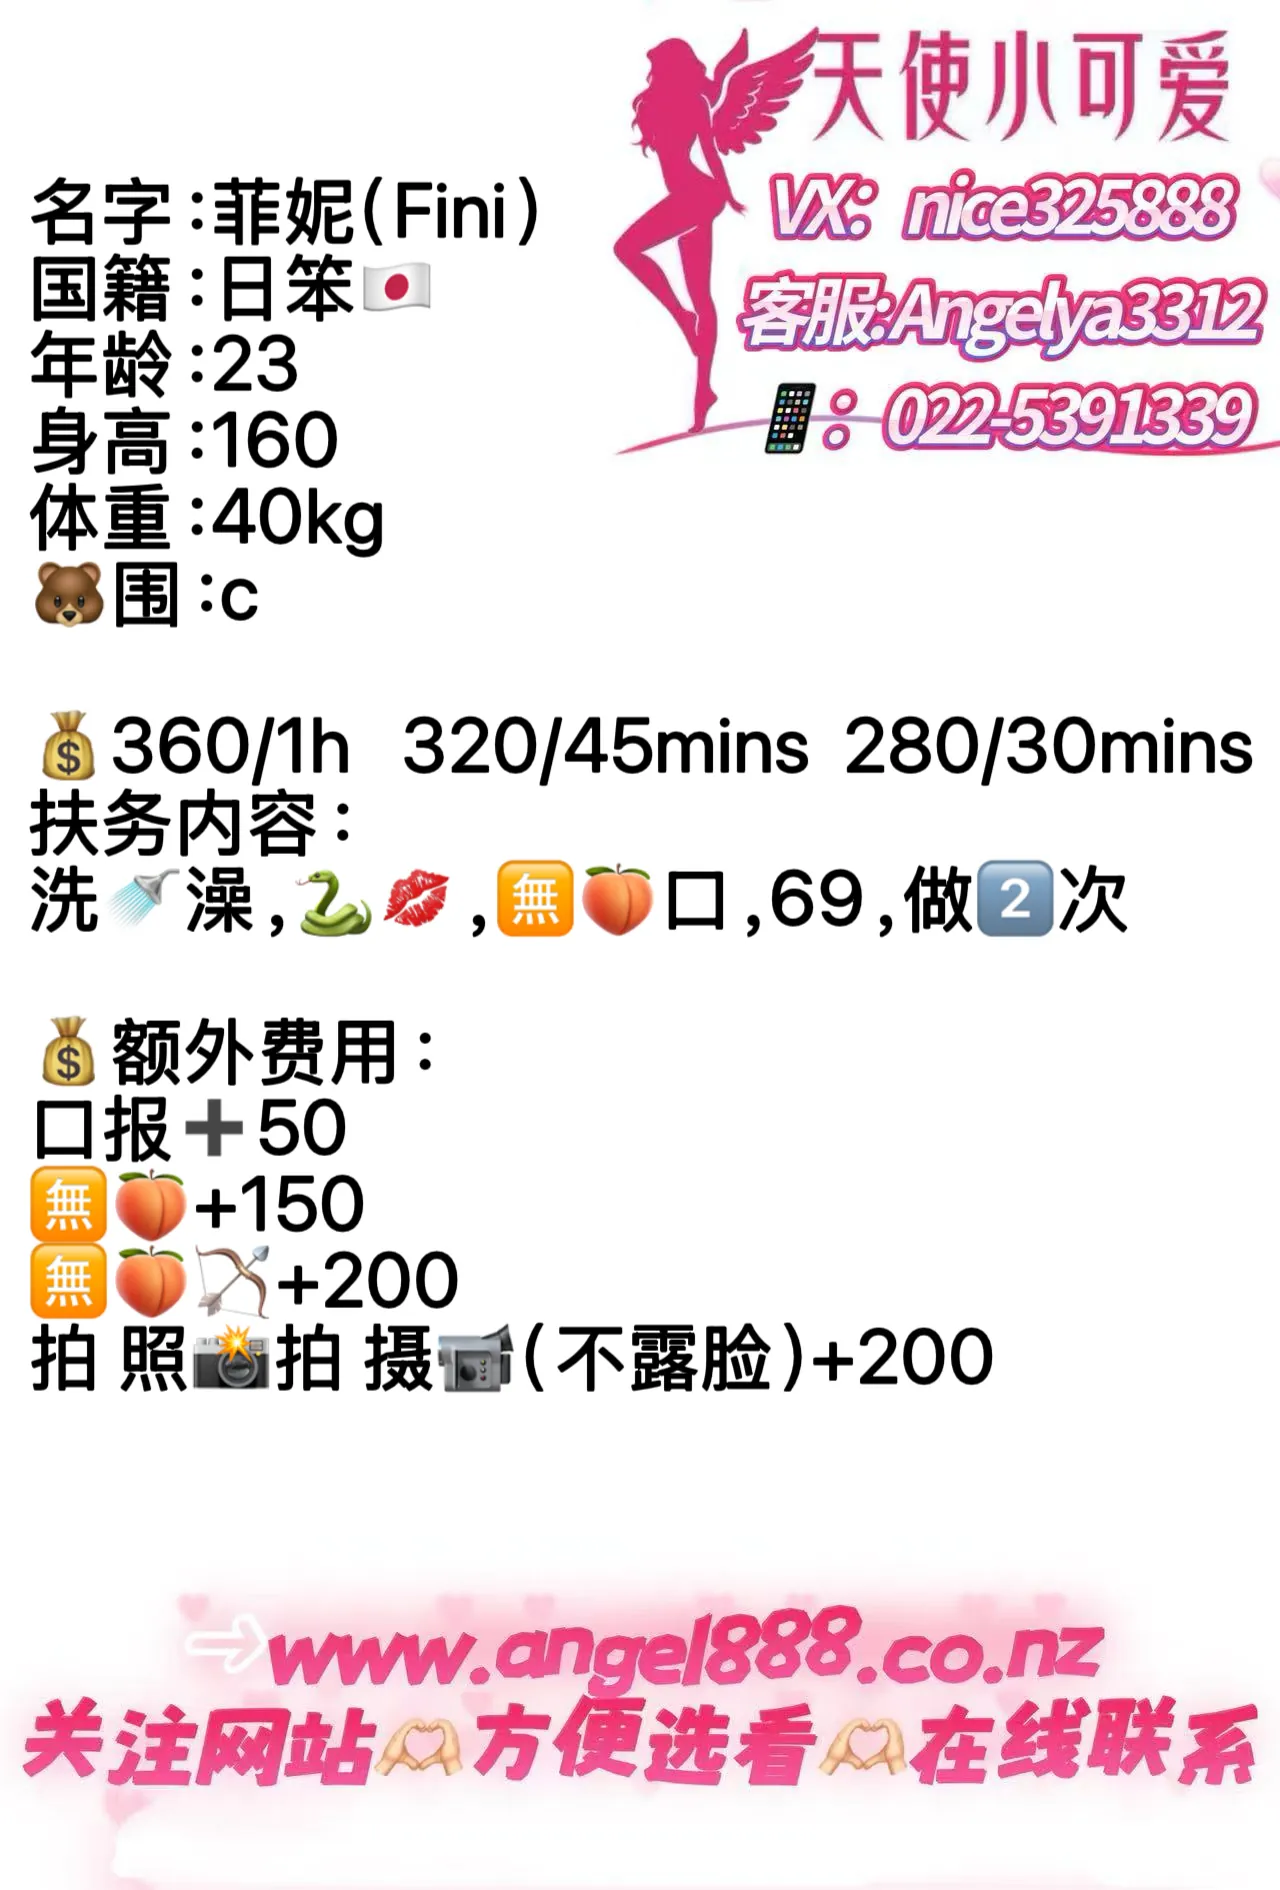
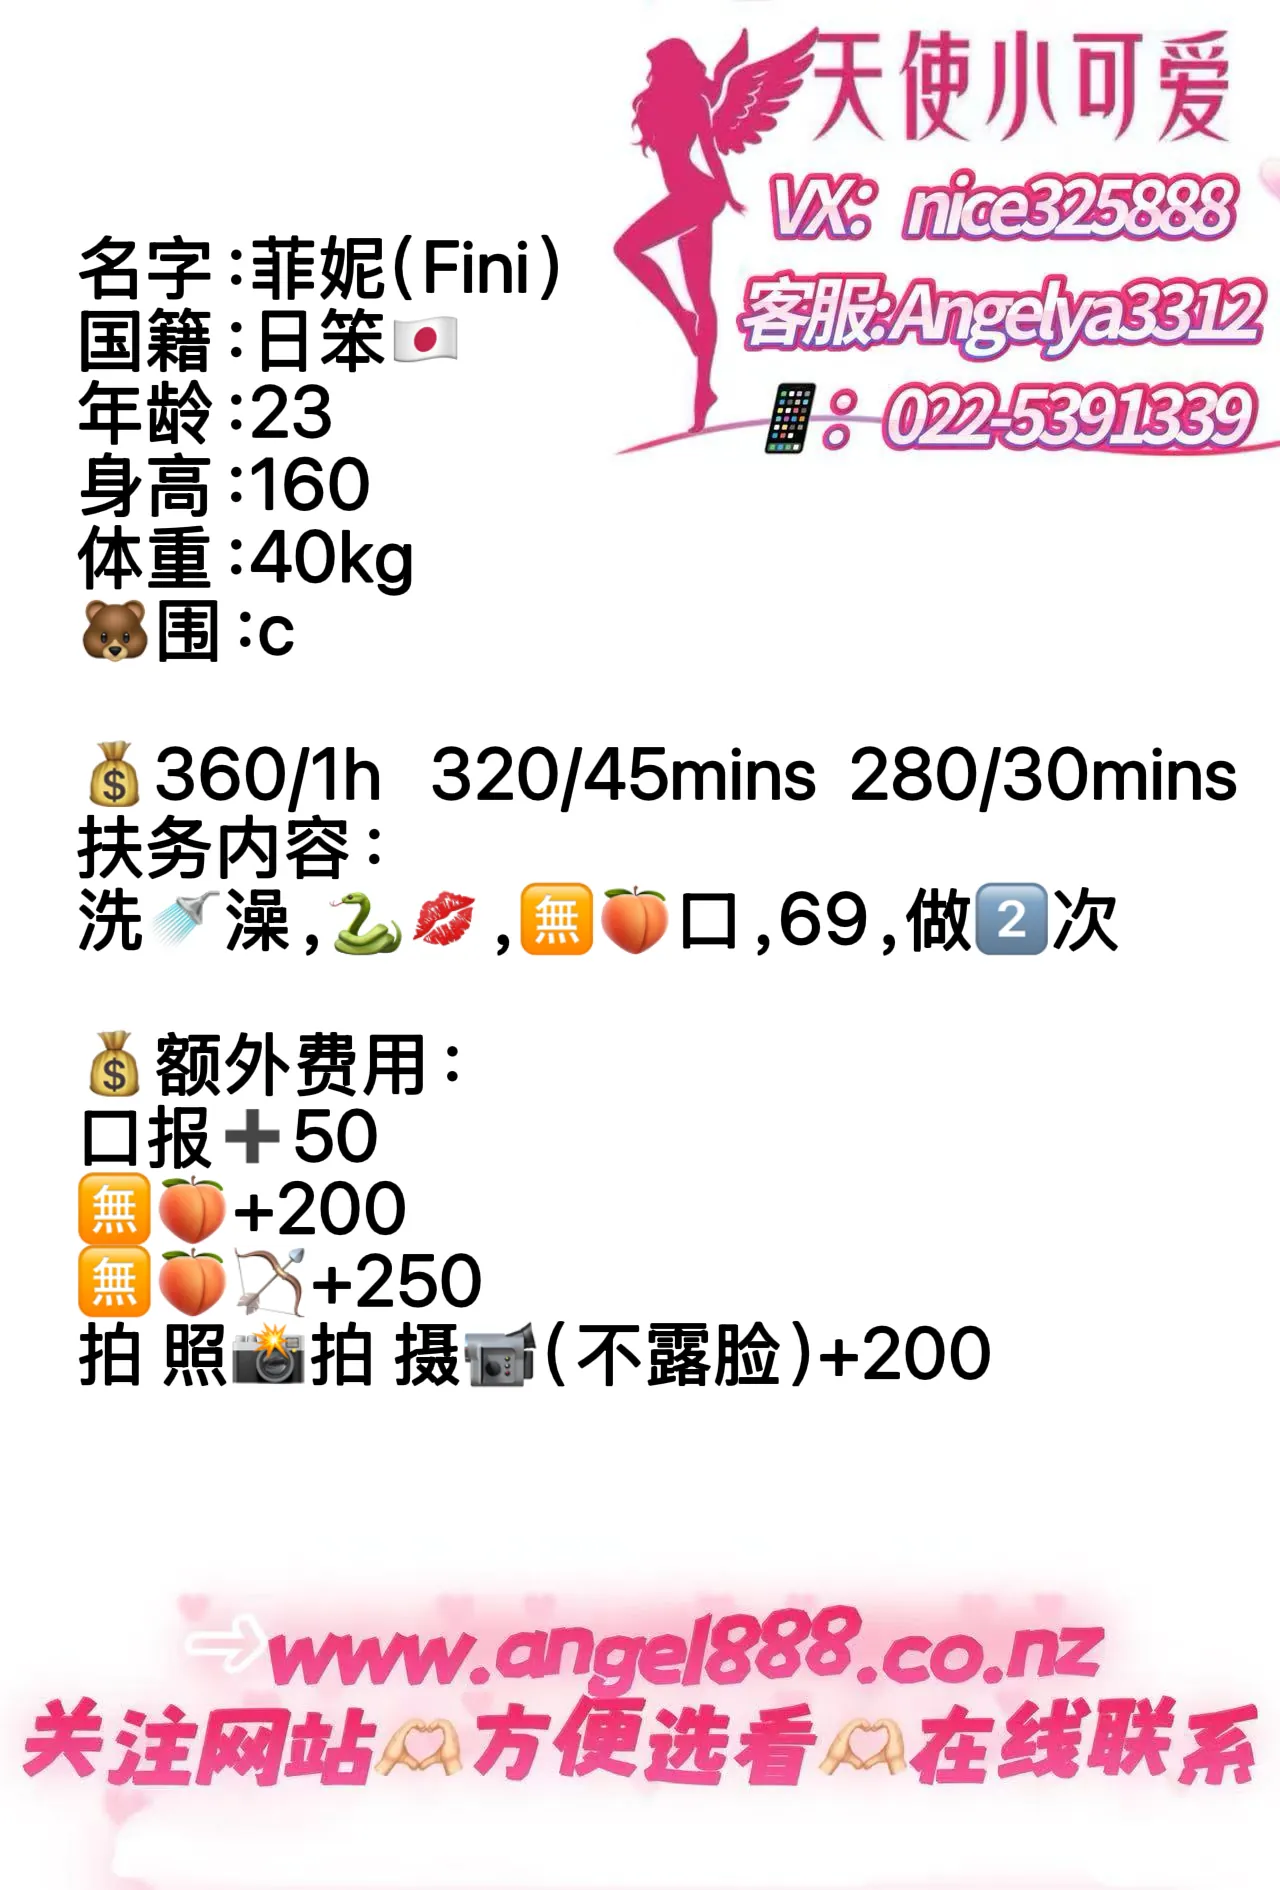
feat: Update Feini data cards and optional upgrades pricing

Changed region(s): [[0.0, 0.0937, 1.0, 0.7492]]

diff --git a/src/lib/data.js b/src/lib/data.js
@@ -62,7 +62,7 @@ export const girls = [
     },
     image: "/images/girls/feini/cover.webp",
     description: {
-      en: "Petite, cute, and absolutely adorable, Fini is a newly arrived 23-year-old Japanese companion serving Central Auckland. Standing at 160cm and weighing a very slender 40kg with lovely C-cup curves, she brings the authentic charm and sweet, gentle nature of a Tokyo sweetheart. Extremely cooperative and attentive, her 1-hour package includes double shower play, deep French kissing (DFK), breast massage, stockings, uniform roleplay, mutual oral (69), bareback BJ (BBBJ), and 2 rounds of pure pleasure. She also offers premium optional extras including CIM, no-condom/creampie upgrades, and photo/video recording (without showing face). Only cash accepted.",
+      en: "Petite, cute, and absolutely adorable, Fini is a newly arrived 23-year-old Japanese companion serving Central Auckland. Standing at 160cm and weighing a very slender 40kg with lovely C-cup curves, she brings the authentic charm and sweet, gentle nature of a Tokyo sweetheart. Extremely cooperative and attentive, her 1-hour package includes double shower play, deep French kissing (DFK), breast massage, stockings, uniform roleplay, mutual oral (69), bareback BJ (BBBJ), and 2 rounds of pure pleasure. She also offers premium optional extras including CIM, no-condom/creampie upgrades (+ $200 / + $250), and photo/video recording (without showing face). Only cash accepted.",
       cn: "全新空降日籍超可爱美少女！23 岁的日籍佳丽菲妮（Fini）现已来到奥克兰中区为您服务。她身高 160cm，体重 40kg，身材极其纤细匀称，拥有饱满诱人的 C 罩杯。菲妮甜美可爱、性格温柔，服务态度极佳，配合度拉满。1 小时套餐不仅提供双人鸳鸯浴、深吻、69互动、胸推滑漫、丝袜与制服诱惑、无套口交，更直接包含做 2 次的超值体验。此外，她还提供口爆、无套性爱、内射以及录像拍照（不露脸）等顶级升级项目，为您打造极致放松的奢华解压时光。仅收现金。",
     },
     price: "$360 / 1h · $320 / 45min · $280 / 30min",
@@ -76,8 +76,8 @@ export const girls = [
         "Stockings / Uniform roleplay",
         "2 rounds",
         "Extra: CIM in mouth (+$50)",
-        "Extra: Natural sex (no creampie) (+$150)",
-        "Extra: Natural sex & creampie (+$200)",
+        "Extra: Natural sex (no creampie) (+$200)",
+        "Extra: Natural sex & creampie (+$250)",
         "Extra: Photo/video record (no face) (+$200)",
         "Payment: Cash only",
       ],
@@ -90,8 +90,8 @@ export const girls = [
         "丝袜/制服诱惑",
         "做2次",
         "额外：口爆 (+$50)",
-        "额外：无套做 (不内射) (+$150)",
-        "额外：无套做 (内射) (+$200)",
+        "额外：无套做 (不内射) (+$200)",
+        "额外：无套做 (内射) (+$250)",
         "额外：拍照录像 (不露脸) (+$200)",
         "付款方式：仅收现金",
       ],
